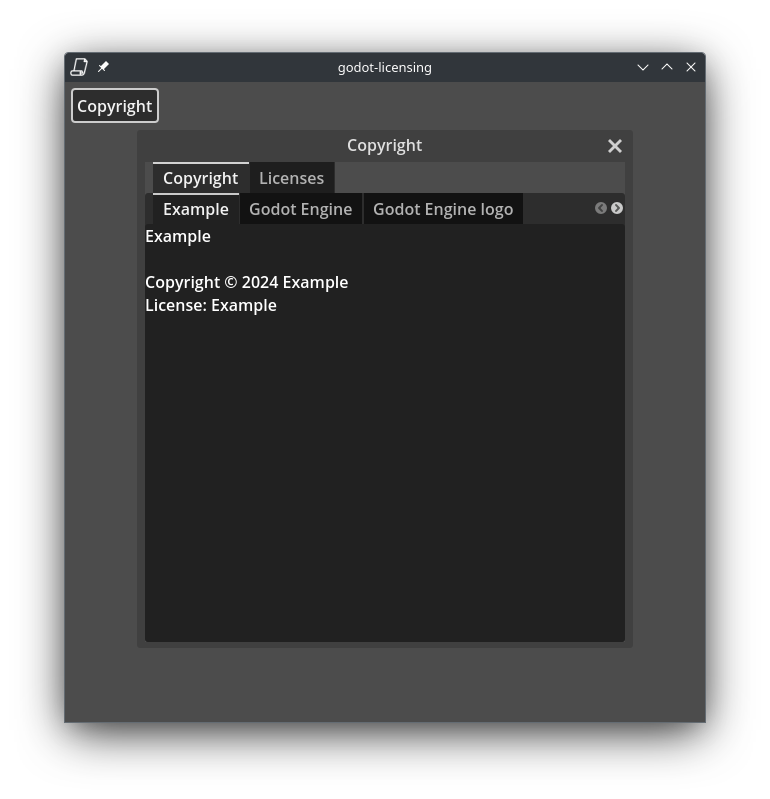
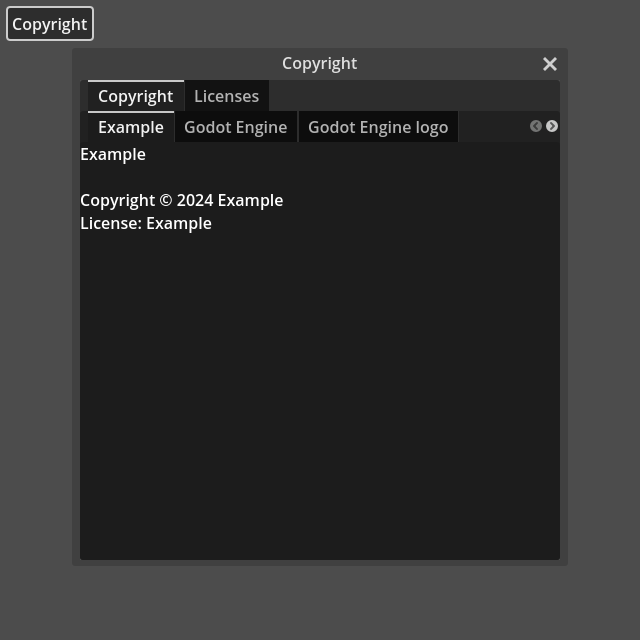
update styling and example

diff --git a/README.md b/README.md
@@ -8,6 +8,8 @@
 
 Adds a preset interface that shows an interactive list of all licenses. Custom licenses can be added through the GodotLicensing singleton.
 
+![example screenshot](https://raw.githubusercontent.com/nathanfranke/godot-licensing/refs/heads/main/static/example.png)
+
 ## usage
 
 Use the `GodotLicensing` singleton to add custom copyrights and licenses (see below). \
@@ -16,11 +18,9 @@ Use the `LicensingInterface` node to show all copyrights and licenses to users. 
 
 **Note**: It is recommended to set `display/window/stretch` such that the full interface shows on all resolutions. For example, set `mode` to `canvas_items` and `aspect` to `stretch`.
 
-**Note**: `LicensingInterface` has a minimum size of `400px` × `400px`.
+**Note**: `LicensingInterface` has a minimum size of `256px` × `256px`.
 
-## example
-
-![example screenshot](https://raw.githubusercontent.com/nathanfranke/godot-licensing/refs/heads/main/static/example.png)
+## examples
 
 Example copyright with license:
 
